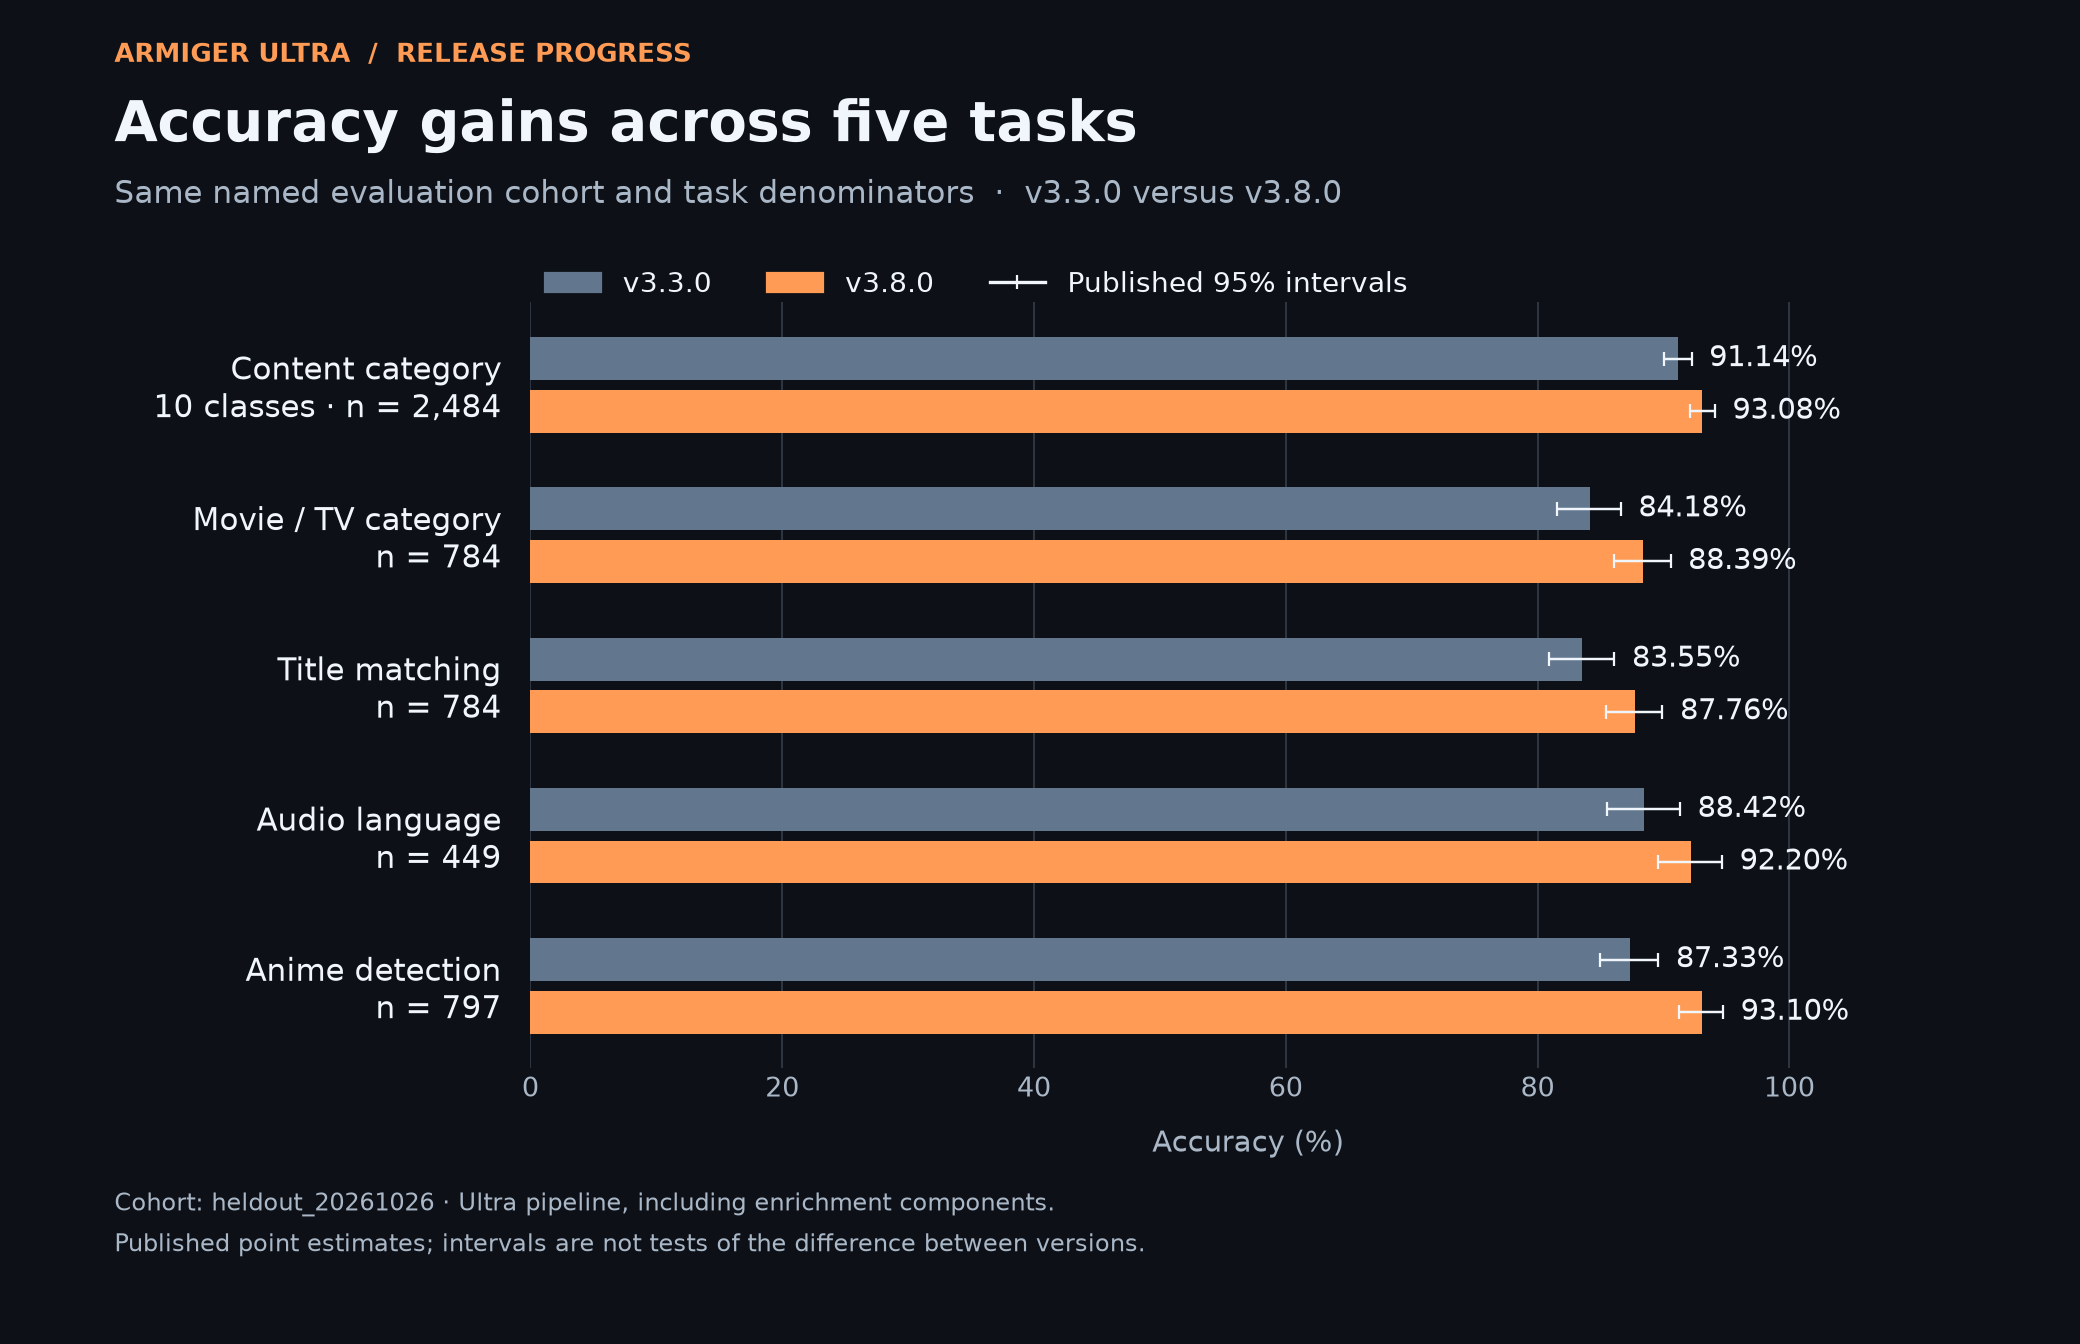
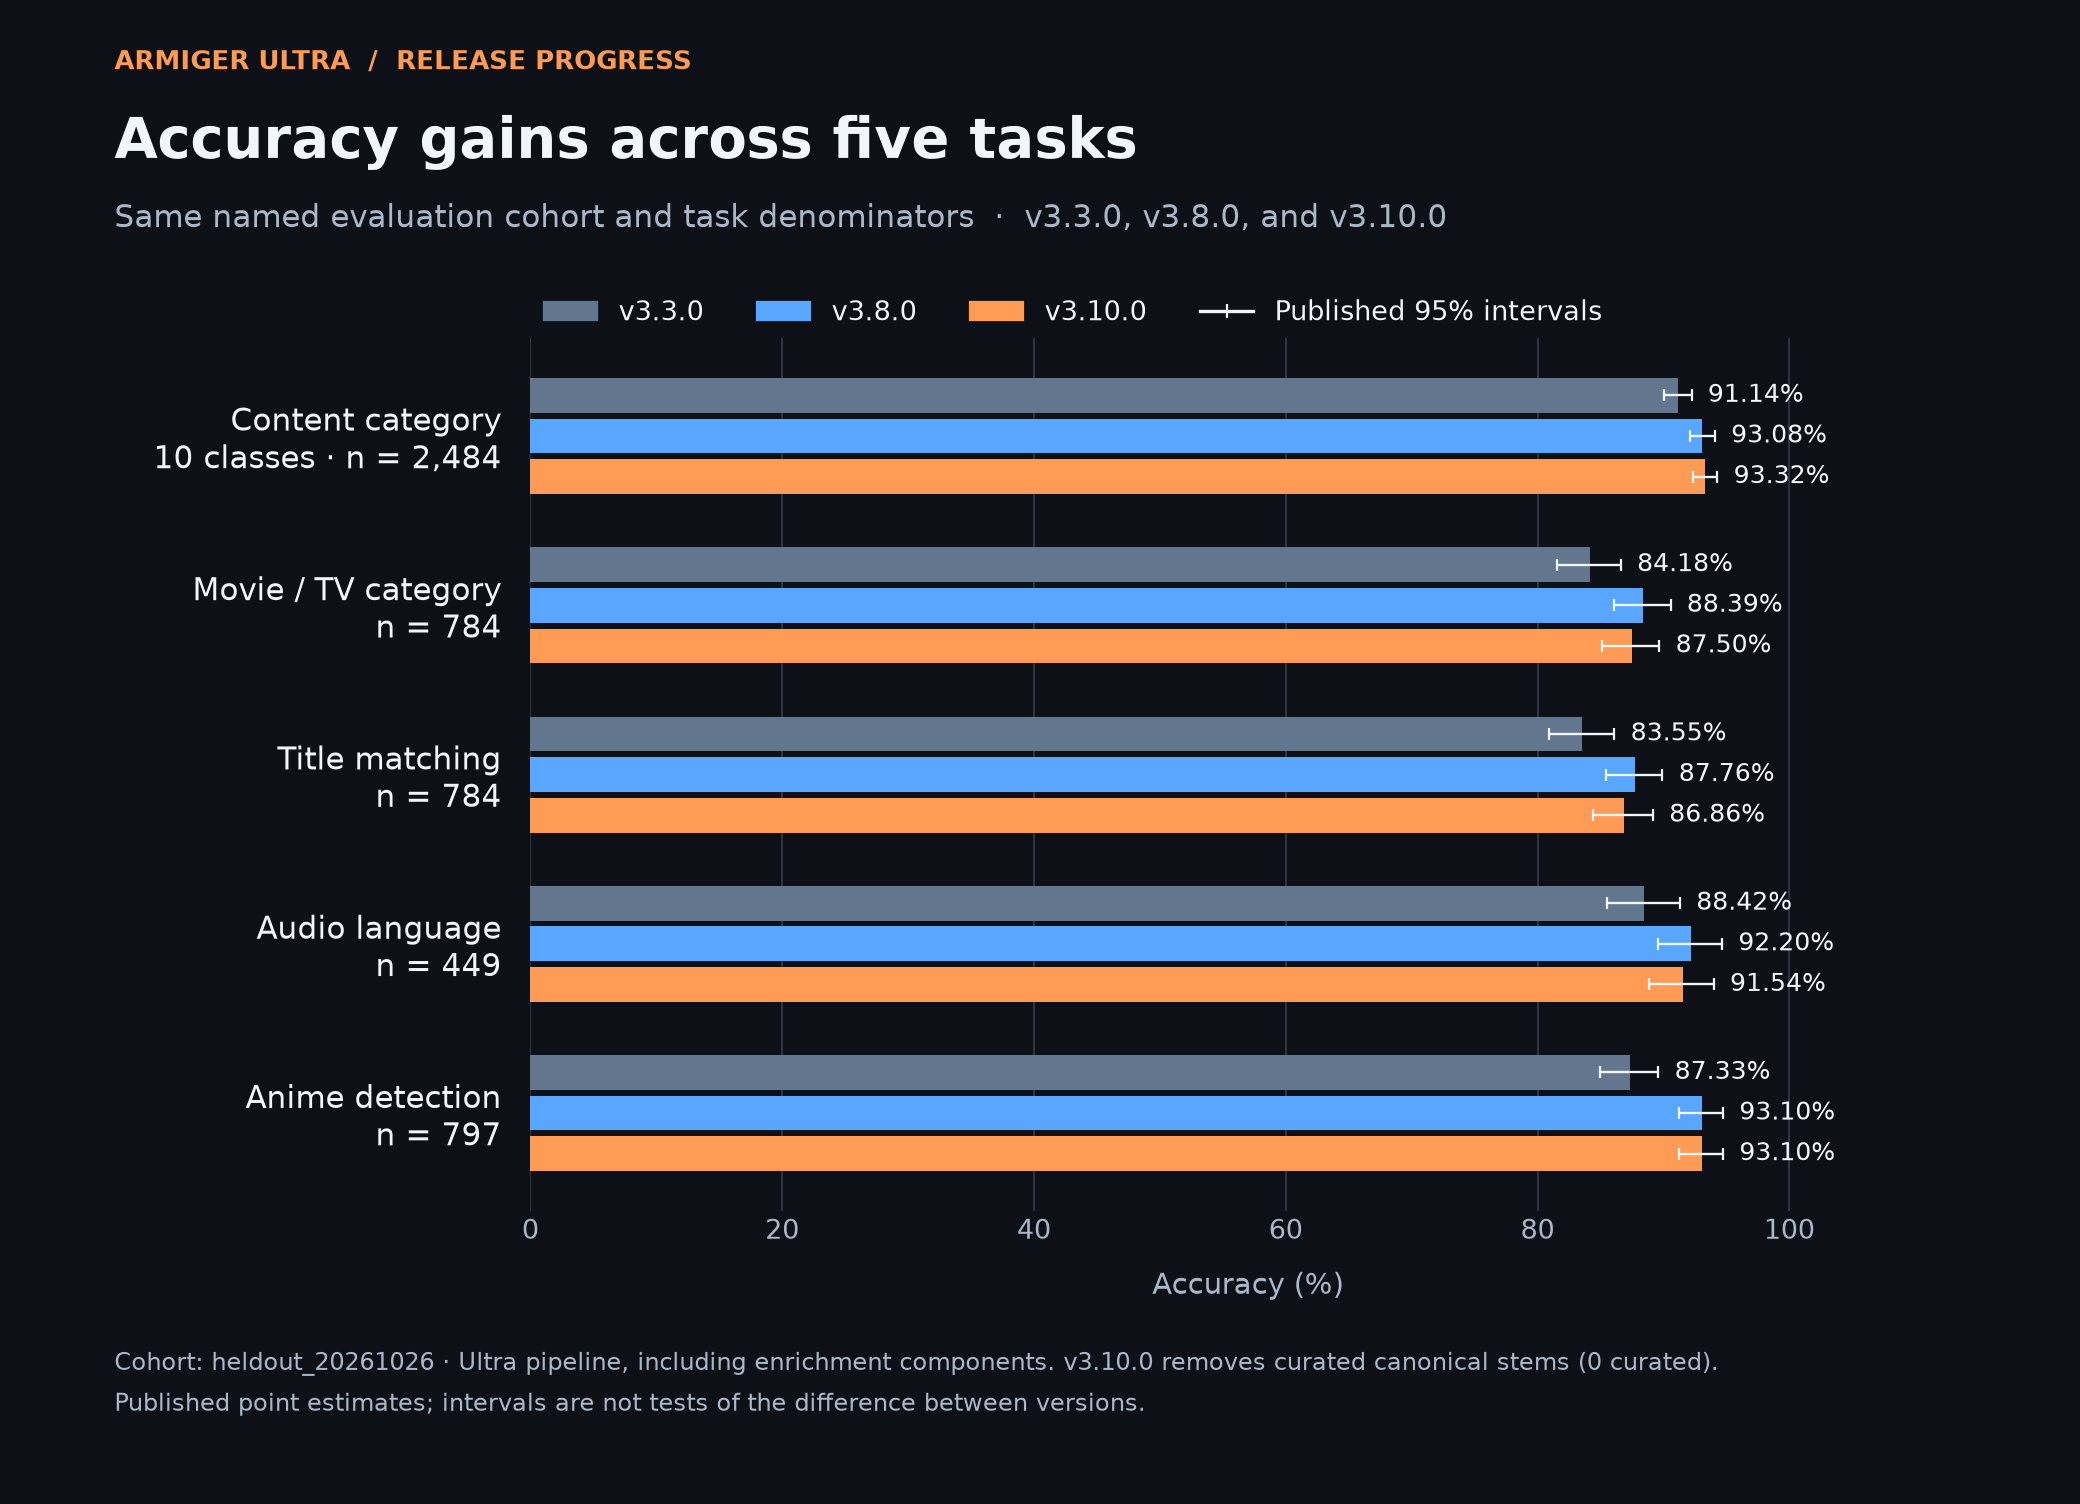
Update discussion 55 progression and velocity charts for v3.10.0

diff --git a/README.md b/README.md
@@ -2,9 +2,9 @@
 
 These assets illustrate [the release cadence discussion](https://github.com/spencernorton/armiger/discussions/55).
 
-- `accuracy-by-task.png`: v3.3.0 versus v3.8.0 point estimates and published 95% intervals.
-- `relative-error-reduction.png`: (new accuracy - old accuracy) / (100 - old accuracy) * 100.
-- `improvement-velocity.png`: accuracy-point change per minor-version step, using gaps 1, 3, and 1 across v3.3.0, v3.4.0, v3.7.0, and v3.8.0. These are interval averages, not per-day rates; intermediate scores are not inferred.
+- `accuracy-by-task.png`: v3.3.0, v3.8.0, and v3.10.0 point estimates and published 95% intervals.
+- `relative-error-reduction.png`: (new accuracy - old accuracy) / (100 - old accuracy) * 100 from v3.3.0 to v3.10.0.
+- `improvement-velocity.png`: accuracy-point change per minor-version step, using gaps 1, 3, 1, and 2 across v3.3.0, v3.4.0, v3.7.0, v3.8.0, and v3.10.0. These are interval averages, not per-day rates; intermediate scores are not inferred.
 - `chart-data.json`: exact chart values, task denominators, and immutable source links.
 
 All values use the published `heldout_20261026` cohort. The smaller task slices are separate denominators, not disjoint datasets to add together. These charts report the Ultra pipeline, including enrichment components. Individual changes are point estimates and do not establish statistical significance or attribute gains solely to training-data growth.
